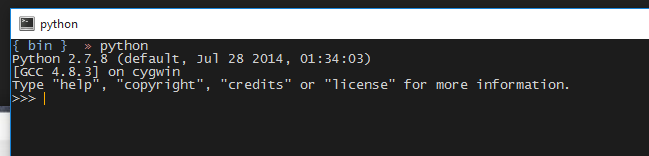
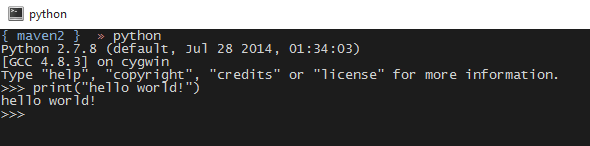
typos fixed, added screenshot

Changed region(s): [[0.0, 0.0, 1.0, 1.0]]

diff --git a/leitner.md b/leitner.md
@@ -6,30 +6,48 @@
 
 Antworten:
   1. Strukturierte Daten:
-    * Daten, die durch das firmeninterne Zeitaufzeichnungstool generiert werden.
-    * Daten, die generiert werden, wenn die Alarmanlage scharf geschalten wird.
-    * Finanzdaten
-  2. Unstrukturierte Daten: E-Mails, Facebook-Posts
+  	* unternehmensinterne Zeitaufzeichnung
+  	* Urlaubsbuchungen
+  	* Rechnungen welche für den Kunden automatisch generiert werden
+  2. Unstrukturierte Daten: 
+  	* Emails 
+  	* Blogbeiträge auf Unternehmenswebseite
+  	* Kommunikation via _Skype for Business_
   3. Gestreamte Daten: 
+  	* Twitter Stream wird analysiert um für das Unternehmen relevante Posts zu erkennen
+  	* Logging von Anwendungen wird in Echtzeit ausgelesen und grafisch dargestellt
   4. Batchdaten: 
+  	* altere Anwendungen/Systeme arbeiten noch nicht mit dem neuen Loggingsystem und erzeugen pro Tag und Uhrzeit eigene Logfiles
+  	* Veränderungen der Datenbank werden in Files geschrieben, durch welche die Datenbank Schemaanpassungen nachgezogen werden können
   
 ##Assignment 2: Big Data in Ihrem Umfeld (4 Punkte)
 Entscheiden Sie sich für eine Data Engineering Plattform. Apache Flink oder Apache Spark. Installieren Sie die auf Ihrem Arbeitsgerät.
 * Erklären Sie ihre Entscheidug
-* Schicken Sie einen Screenshot der installierten Umgebung mit  
+	Ich habe zuvor weder mit __Spark__ noch mit __Flink__ gearbeitete, weshalb mir eine Entscheidung natürlich entsprechend schwer fiel. Beide Frameworks bieten ähnliche Features und auch eine umfangreiche Dokumentation. 
+    Ich habe versucht mir auf _stackoverflow_ einen Überblick zu verschaffen, welches Framework zur Zeit beliebter ist bzw. von der Community besser supported wird. Ich habe mich dadurch schlussendlich für __Flink entschieden__, auch weil ich die Anleitungne/Hilfestellungen auf der entsprechenden Website ansprechender fand.
+* Schicken Sie einen Screenshot der installierten Umgebung mit
+	Die Installation erfolgte sehr einfach und ware eigentlich durchgehend auf der Apache-Flink-Seite dokumentiert. Nach Download eines __Zip Packets__ muss diese entpackt werden und auf der Bash ausgeführt werden. Danach kann man via __localhost:8081__ die Administrationsoberfläche starten.  
+    
+    todo: Link zu screenshot
 * Beschreiben Sie Ihre Toolchain, die Sie mit dem Framework nutzen würden (z.B. IDE)  
-  
+	Wenn ich nicht im .Net Umfeld arbeite, verwende ich zur Entwicklung eigentlich sehr gerne __Jetbrains__ Produkte, so auch in diesem Fall: IntelliJ IDEA (& Maven). 
+    Damit Flink unter Maven lauffähig ist müssen 3 Maven Dependencies hinzugefügt werden, welche auf der Apache-Flink-Seite dokumentiert sind.
+
 ##Assignment 3: Big Data in Ihrem Umfeld (4 Punkte)
 Schreiben Sie ein simples Program mit dem Framework (z.B. Helloworld) und laden Sie es hoch.
+
 * 2 Punkte für Programm
 * 2 Punkte, wenn das Programm auch ausführbar ist.
+
+Eine _Hello-World-Anwendung_ im __Daten-Engineering Umfeld__ ist in der Regel ein einfacher __Wordcount__. Dieser wird so ähnlich auch in der Apache Fink Dokumentation erklärt und beschrieben. Ich habe einen solchen Wordcount als Beispielimplementierung mittels Flink umgesetzt. Es handelt sich hierbei um ein IntelliJ Maven-Projekt, welches zwei Unit Tests beinhaltet. Nach dem Wiederherstellen der Maven Dependencies können diese durchgeführt werden.
   
 #Data Science
 ##Assignment 1: Technologien (4 Punkte)
-1. Sie haben in der LVA zwei Frameworks kennengelernt (R und Python). Nennen Sie zwei weitere Technologien, um Daten zu analysieren (müssen nicht open source sein)
+1. Sie haben in der LVA zwei Frameworks kennengelernt (R und Python). Nennen Sie zwei weitere Technologien, um Daten zu analysieren (müssen nicht open source sein).
 
-	Ich habe hierzu interessante Statistiken gefunden, welche beschreiben, welche
-Programmiersprache bzw. welches Analyse Tools in Jobangeboten für Data-Scientists gefragt sind:
+    Scala, Matlab, SPSS aber auch Perl empfehlen sich meiner Meinung nach auch sehr gut zum Analysieren von Daten. 
+	Ich habe hierzu auch Statistiken gefunden, welche beschreiben, welche
+	Programmiersprache bzw. welche Analyse Tools in Jobangeboten für Data-Scientists gefragt sind:
 
 	![Programmiersprachen](http://api.ning.com/files/HRXB3pTHxIoFxP8VG2ML5FPV5KzCia0LUG5goGrn*ytWqT10vfPhsY*vN*EXPy0rFRASaoKy-6Mt4vPswNGLz4owrc8JhL*A/ProgrammingLanguagesListedinDataScientistJobDescriptions.jpg")
 
@@ -39,14 +57,20 @@ Programmiersprache bzw. welches Analyse Tools in Jobangeboten für Data-Scientis
 
 2. Sie bekommen den Auftrag, sich mit einer Data Science Technologie zu arbeiten. Nennen Sie Technologie, die ihnen auf dem ersten Blick am besten für Sie ersscheint und begründen Sie das!
 
-	Ich würde meinen Auftrag mit Python durchführe, da es ein sehr leicht gewichtiges Tool ist dessen Syntax sehr einfach zu verstehen ist. Zusätzlich findet man im Internet (Stackoverflow und co.) eine Menge Hilfestellungen welche auch aufgrund der großen Community die hinter Python steht entsprechend qualitativ hochwertig und gewartet ist. Zusätzlich habe ich bereits erfahrungen damit. 
-    Probleme gibt es meiner Meinung anch jedoch bei komplexen Anwendungen, da ich beispielsweise das Python DependencyManagment nicht besonders angenehm, bzw. fehleranfällig finde. Hier wäre wohl JAVA eine bessere Alternative obwohl ihr hierbei noch keine Erfahrungen habe. 
+	Ich würde meinen Auftrag mit __Python__ durchführe, da es ein sehr leicht gewichtiges Tool ist dessen Syntax sehr einfach zu verstehen ist. Zusätzlich findet man im Internet (Stackoverflow und co.) eine Menge Hilfestellungen welche auch aufgrund der großen Community die hinter Python steht entsprechend qualitativ hochwertig und gewartet ist. Zusätzlich habe ich bereits Erfahrungen damit. 
+    Probleme gibt es meiner Meinung nach jedoch bei komplexeren Anwendungen, da beispielsweise das Python DependencyManagment nicht besonders wartbar und fehleranfällig ist. Hier wäre wohl __Java__ eine bessere Alternative. 
 
 ##Assignment 2: Technologien
 Entscheiden Sie sich für eine Data Science Plattform. R oder Python Installieren Sie die auf Ihrem Arbeitsgerät.
 * 1 Punkt: Begründen Sie ihre Entscheidung (Warum ziehen Sie persönlich aus ihrer Ausgangssituation die eine Technologie der anderen vor).
+	Wie bereits oben beschrieben, fällt meine Wahl auf __Python__, da ich mit dieser Technologie bereits vertraut bin und sie auch entsprechend leichtgewichtig ist. Zusätzlich bin ich jedoch der Meinung, dass die Wahl der Technologie immer aufgrund der Vorgaben im Projekt getroffen werden sollte. Man sollte also zu Projektbeginn eine Evaluierung der Technologien auf Basis der Anforderungen durchführen.
 * 2 Punkte: Schicken Sie einen Screenshot der installierten Umgebung mit
-* 1 Punkt: Beschreiben Sie Ihre Toolchain, die Sie mit dem Framework nutzen (z.B. IDE)
+	_Python-Installation:_
+    
+    _Python Hello-World in Console:_
+    
+* 3 Punkt: Beschreiben Sie Ihre Toolchain, die Sie mit dem Framework nutzen (z.B. IDE)
+	Wie bereits oben beschrieben verwende ich sehr gerne Jetbrains Entwicklungsprodukte, welche auch einen Python IDE anbieten (PyCharm), zusätzlich bietet sich zum schnellen Editieren auch Sublime mit Syntax Unterstützung an. 
 
 ##Assignment 3: Big Science
 Der Cheatsheet auf http://scikit-learn.org/stable/tutorial/machine_learning_map/ ist eine einfache Anleitung, wie man den richtigen Algorithmus zum richtigen Data Science Problem findet.  
